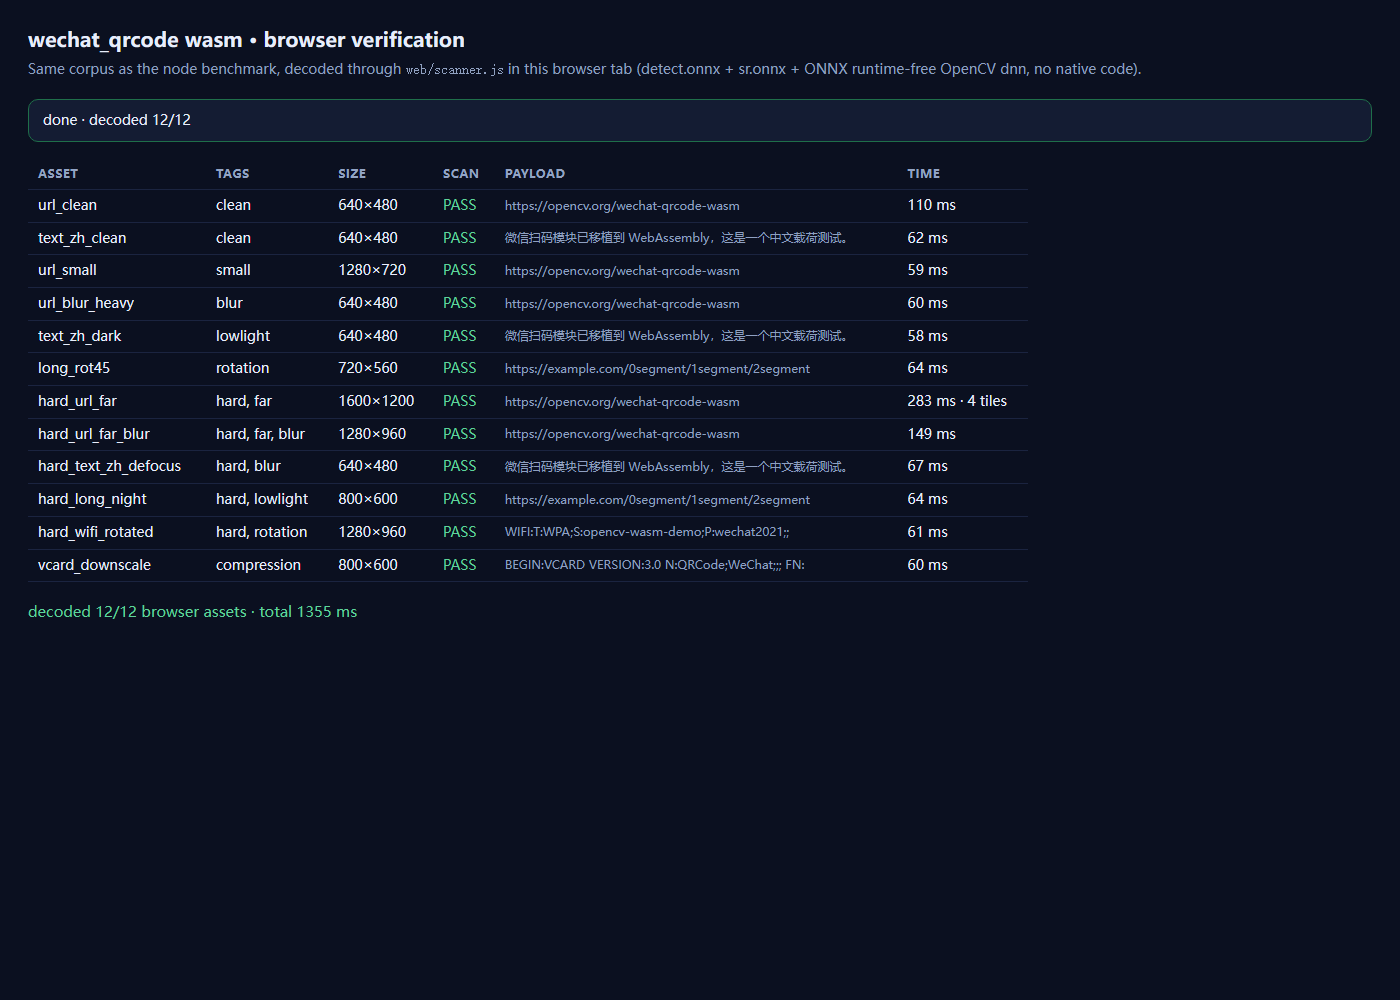
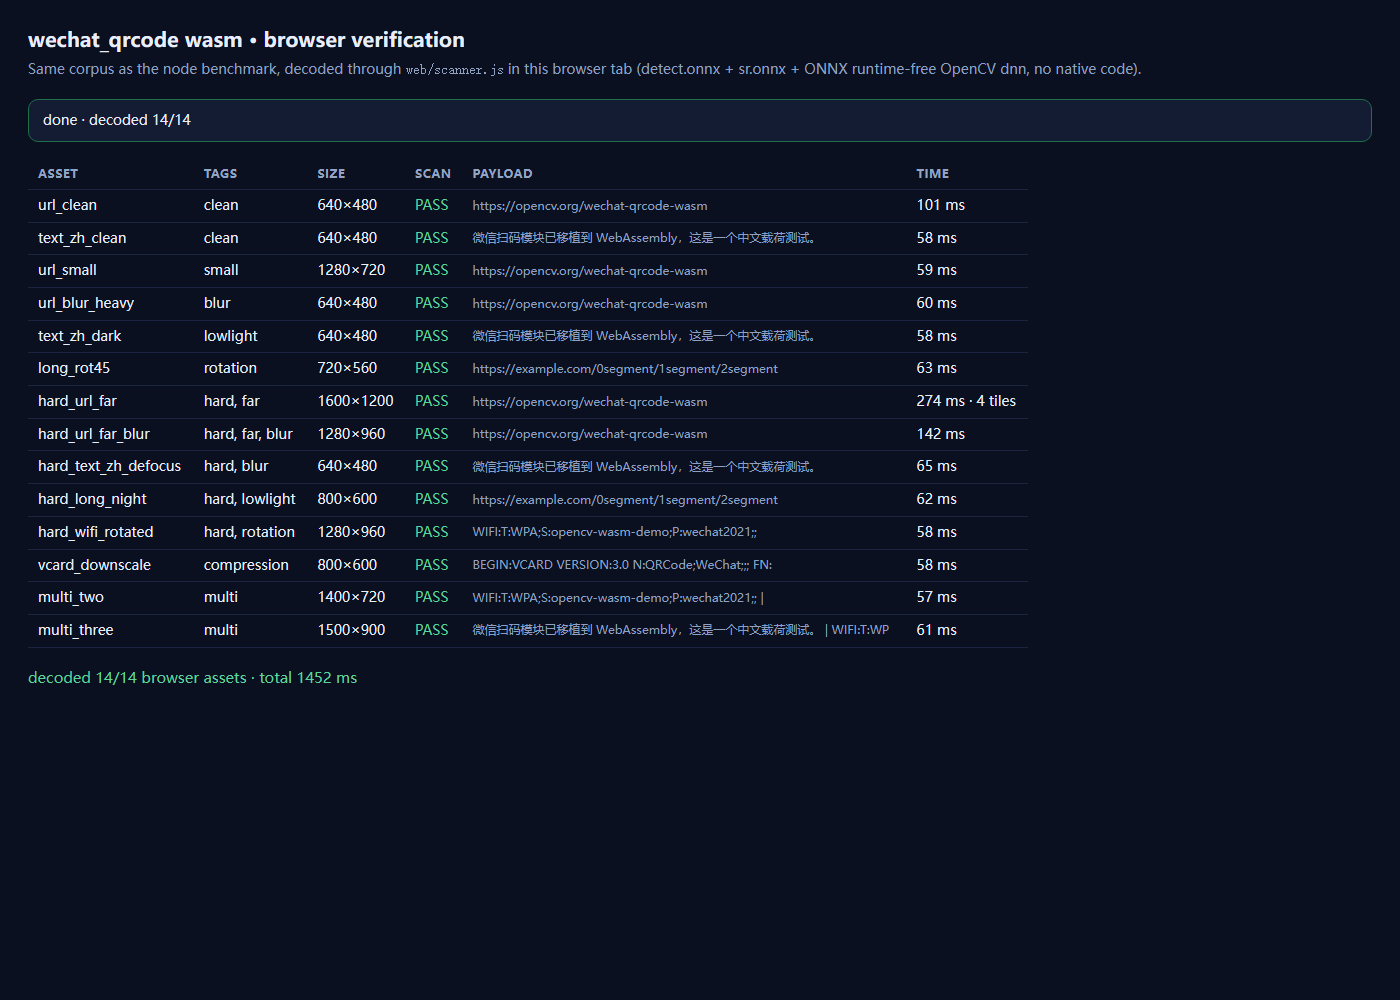
Add multi-code regression coverage, docs and refresh benchmark
- gen_test_assets: multi_two / multi_three / multi_duplicate / multi_grid scenes
- run-tests: dedicated multi-code suite (4/4), harness resultsMatchAsset (multiset)
- browser test: 14 assets incl. 2-code and 3-code scenes
- docs: multi-code semantics in README / docs/api.md / docs/architecture.md / AGENTS.md
- BENCHMARK.md + docs/browser-tests.png regenerated

Changed region(s): [[0.0307, 0.155, 0.7371, 0.682]]

diff --git a/tests/browser/browser-test.js b/tests/browser/browser-test.js
@@ -25,7 +25,19 @@ const WANTED = [
   'hard_long_night',
   'hard_wifi_rotated',
   'vcard_downscale',
+  'multi_two',
+  'multi_three',
 ];
+
+/** Multi-code aware ground-truth check (same rule as tests/_harness.mjs#resultsMatchAsset). */
+function matchesAsset(asset, results) {
+  const want = new Map();
+  for (const payload of asset.payloads ?? [asset.payload]) want.set(payload, (want.get(payload) ?? 0) + 1);
+  const got = new Map();
+  for (const result of results) got.set(result.text, (got.get(result.text) ?? 0) + 1);
+  for (const [payload, count] of want) if ((got.get(payload) ?? 0) < count) return false;
+  return true;
+}
 
 function setStatus(text, cls = '') {
   statusEl.textContent = text;
@@ -80,10 +92,11 @@ async function main() {
       console.log(
         `[browser-test] ${asset.id} -> count=${result.count} ms=${result.ms} wall=${Math.round(performance.now() - t1)}`,
       );
-      const hit = result.results.find((r) => r.text === asset.payload);
+      const hit = matchesAsset(asset, result.results);
       cells[3].textContent = hit ? 'PASS' : 'FAIL';
       cells[3].className = hit ? 'pass' : 'fail';
-      cells[4].textContent = (result.results[0]?.text ?? '').slice(0, 46);
+      const texts = result.results.map((r) => r.text);
+      cells[4].textContent = (texts.length > 1 ? texts.join(' | ') : (texts[0] ?? '')).slice(0, 46);
       cells[4].className = 'payload';
       cells[5].textContent = `${Math.round(result.ms)} ms${result.tiles ? ` · ${result.tiles} tiles` : ''}`;
       if (hit) pass++;

diff --git a/tools/gen_test_assets.py b/tools/gen_test_assets.py
@@ -163,7 +163,7 @@ def build(seed: int, out_dir: Path) -> list[dict]:
 
     entries: list[dict] = []
 
-    def emit(asset_id: str, payload: str, img: Image.Image, tags: list[str], note: str = "") -> None:
+    def write_asset(asset_id: str, img: Image.Image, meta: dict) -> None:
         img = img.convert("RGB")
         png_path = png_dir / f"{asset_id}.png"
         raw_path = raw_dir / f"{asset_id}.rgba"
@@ -173,15 +173,20 @@ def build(seed: int, out_dir: Path) -> list[dict]:
         entries.append(
             {
                 "id": asset_id,
-                "payload": payload,
                 "width": img.width,
                 "height": img.height,
                 "png": f"png/{asset_id}.png",
                 "raw": f"raw/{asset_id}.rgba",
-                "tags": tags,
-                "note": note,
+                **meta,
             }
         )
+
+    def emit(asset_id: str, payload: str, img: Image.Image, tags: list[str], note: str = "") -> None:
+        write_asset(asset_id, img, {"payload": payload, "tags": tags, "note": note})
+
+    def emit_multi(asset_id: str, payloads: list[str], img: Image.Image, note: str) -> None:
+        """Multi-code scene: `expect` is the number of distinct codes that must be decoded."""
+        write_asset(asset_id, img, {"payload": payloads[0], "payloads": payloads, "expect": len(payloads), "tags": ["multi"], "note": note})
 
     def fresh_qr(payload: str, *, scale: int, border: int = 4, error: str = "m") -> Image.Image:
         return qr_image(payload, scale=scale, border=border, error=error)
@@ -300,6 +305,48 @@ def build(seed: int, out_dir: Path) -> list[dict]:
     # 9h. rotated small code (no axis-aligned gift for the finder-pattern scan)
     img = hard_scene(PAYLOADS["wifi"], (1280, 960), 3).rotate(28, resample=Image.BICUBIC, expand=False, fillcolor=(238, 238, 238))
     emit("hard_wifi_rotated", PAYLOADS["wifi"], img, ["hard", "rotation"], "28 degrees, ~60px code")
+    # 10. multi-code scenes: the detector emits many candidate boxes (keep_top_k=100) and the
+    # decoder walks all of them, so several codes in one frame are decoded in a single call.
+    def multi_scene(payloads: list[str], size: tuple[int, int], centers: list[tuple[int, int]], qr_scale: int = 6) -> Image.Image:
+        img = scene_background(size, rng)
+        for payload, center in zip(payloads, centers):
+            img = paste_qr(img, fresh_qr(payload, scale=qr_scale), center=center)
+        return img
+
+    emit_multi(
+        "multi_two",
+        [PAYLOADS["url"], PAYLOADS["wifi"]],
+        multi_scene([PAYLOADS["url"], PAYLOADS["wifi"]], (1400, 720), [(340, 360), (1060, 360)]),
+        "two different codes in one frame",
+    )
+    emit_multi(
+        "multi_three",
+        [PAYLOADS["url"], PAYLOADS["text_zh"], PAYLOADS["wifi"]],
+        multi_scene(
+            [PAYLOADS["url"], PAYLOADS["text_zh"], PAYLOADS["wifi"]],
+            (1500, 900),
+            [(300, 230), (1180, 260), (740, 690)],
+        ),
+        "three different codes in one frame",
+    )
+    emit_multi(
+        "multi_duplicate",
+        [PAYLOADS["vcard"], PAYLOADS["vcard"]],
+        multi_scene([PAYLOADS["vcard"], PAYLOADS["vcard"]], (1200, 620), [(320, 310), (880, 310)]),
+        "same payload twice: both quads must be reported (dedup is spatial, not by text)",
+    )
+    grid_payloads = [f"https://grid.example/item{i}" for i in range(9)]
+    emit_multi(
+        "multi_grid",
+        grid_payloads,
+        multi_scene(
+            grid_payloads,
+            (1600, 1100),
+            [(310 + col * 490, 230 + row * 330) for row in range(3) for col in range(3)],
+            qr_scale=5,
+        ),
+        "3x3 grid of distinct codes",
+    )
 
     manifest = {
         "seed": seed,

diff --git a/BENCHMARK.md b/BENCHMARK.md
@@ -4,47 +4,48 @@ Generated by `tests/benchmark.mjs` from `tests/assets/manifest.json` (29 assets)
 The corpus is generated by `tools/gen_test_assets.py` and contains a clean reference set plus a
 deliberately hostile "hard" tier (far/small codes, defocus, night, glare, strong perspective, recompression).
 All decoders receive identical raw RGBA pixels; latency is measured in node on the same machine.
+Multi-code scenes are excluded here (jsQR decodes a single code per call); they are covered by tests/run-tests.mjs.
 
 Decoder configuration: tiled fallback 2x2 for wechat_qrcode.
 
 | decoder | decoded | clean set | hard tier | avg latency |
 | --- | --- | --- | --- | --- |
-| OpenCV wechat_qrcode (this repo) | 28/29 (97%) | 5/5 | 9/10 | 99.9 ms |
-| zxing-wasm | 25/29 (86%) | 5/5 | 6/10 | 4.8 ms |
-| jsQR | 25/29 (86%) | 5/5 | 6/10 | 90.6 ms |
+| OpenCV wechat_qrcode (this repo) | 28/29 (97%) | 5/5 | 9/10 | 93.7 ms |
+| zxing-wasm | 25/29 (86%) | 5/5 | 6/10 | 3.9 ms |
+| jsQR | 25/29 (86%) | 5/5 | 6/10 | 84.4 ms |
 
 ## Per-asset results
 
 | asset | tags | wechat | zxing-wasm | jsqr |
 | --- | --- | --- | --- | --- |
-| url_clean | clean | ✓ 67 | ✓ 3 | ✓ 13 |
-| text_zh_clean | clean | ✓ 66 | ✓ 3 | ✓ 16 |
-| wifi_clean | clean | ✓ 65 | ✓ 2 | ✓ 8 |
-| vcard_clean | clean | ✓ 67 | ✓ 3 | ✓ 9 |
-| long_clean | clean | ✓ 65 | ✓ 3 | ✓ 14 |
-| url_small | small | ✓ 60 | ✓ 6 | ✓ 34 |
-| text_zh_small | small | ✓ 59 | ✓ 5 | ✓ 23 |
-| wifi_small | small | ✓ 61 | ✓ 5 | ✓ 33 |
-| url_blur_light | blur | ✓ 61 | ✓ 4 | ✓ 13 |
-| url_blur_heavy | blur | ✓ 62 | ✓ 3 | ✓ 7 |
-| text_zh_noise | noise | ✓ 66 | ✓ 4 | ✓ 182 |
+| url_clean | clean | ✓ 59 | ✓ 2 | ✓ 10 |
+| text_zh_clean | clean | ✓ 60 | ✓ 3 | ✓ 10 |
+| wifi_clean | clean | ✓ 61 | ✓ 2 | ✓ 7 |
+| vcard_clean | clean | ✓ 61 | ✓ 3 | ✓ 11 |
+| long_clean | clean | ✓ 60 | ✓ 2 | ✓ 16 |
+| url_small | small | ✓ 59 | ✓ 5 | ✓ 18 |
+| text_zh_small | small | ✓ 58 | ✓ 5 | ✓ 34 |
+| wifi_small | small | ✓ 57 | ✓ 5 | ✓ 30 |
+| url_blur_light | blur | ✓ 58 | ✓ 3 | ✓ 7 |
+| url_blur_heavy | blur | ✓ 60 | ✓ 3 | ✓ 9 |
+| text_zh_noise | noise | ✓ 64 | ✓ 3 | ✓ 168 |
 | text_zh_dark | lowlight | ✓ 60 | ✓ 2 | ✓ 7 |
-| wifi_lowcontrast | low_contrast | ✓ 63 | ✓ 2 | ✓ 7 |
-| url_glare | glare | ✓ 65 | ✓ 2 | ✓ 9 |
-| long_perspective | perspective | ✓ 64 | ✓ 3 | ✓ 12 |
-| long_rot45 | rotation | ✓ 66 | ✓ 3 | ✓ 15 |
-| long_rot15 | rotation | ✓ 65 | ✓ 3 | ✓ 14 |
-| vcard_downscale | compression | ✓ 65 | ✓ 3 | ✓ 13 |
-| vcard_blur_small | small, blur | ✓ 64 | ✓ 3 | ✓ 13 |
-| hard_url_far | hard, far | ✓ 315 | ✓ 16 | ✓ 39 |
-| hard_text_zh_far | hard, far | ✓ 66 | ✓ 8 | ✓ 24 |
-| hard_wifi_far | hard, far | ✓ 65 | ✓ 12 | ✓ 43 |
-| hard_url_far_blur | hard, far, blur | ✓ 162 | ✗ | ✗ |
-| hard_text_zh_defocus | hard, blur | ✓ 73 | ✗ | ✗ |
-| hard_long_night | hard, lowlight | ✓ 68 | ✗ | ✗ |
-| hard_vcard_glare | hard, glare | ✓ 63 | ✓ 3 | ✓ 12 |
-| hard_url_tilted | hard, perspective | ✓ 62 | ✓ 4 | ✓ 33 |
+| wifi_lowcontrast | low_contrast | ✓ 60 | ✓ 2 | ✓ 8 |
+| url_glare | glare | ✓ 59 | ✓ 2 | ✓ 6 |
+| long_perspective | perspective | ✓ 62 | ✓ 3 | ✓ 11 |
+| long_rot45 | rotation | ✓ 64 | ✓ 2 | ✓ 13 |
+| long_rot15 | rotation | ✓ 61 | ✓ 3 | ✓ 12 |
+| vcard_downscale | compression | ✓ 59 | ✓ 3 | ✓ 12 |
+| vcard_blur_small | small, blur | ✓ 60 | ✓ 3 | ✓ 11 |
+| hard_url_far | hard, far | ✓ 289 | ✓ 10 | ✓ 34 |
+| hard_text_zh_far | hard, far | ✓ 59 | ✓ 6 | ✓ 21 |
+| hard_wifi_far | hard, far | ✓ 63 | ✓ 10 | ✓ 37 |
+| hard_url_far_blur | hard, far, blur | ✓ 151 | ✗ | ✗ |
+| hard_text_zh_defocus | hard, blur | ✓ 68 | ✗ | ✗ |
+| hard_long_night | hard, lowlight | ✓ 64 | ✗ | ✗ |
+| hard_vcard_glare | hard, glare | ✓ 59 | ✓ 2 | ✓ 11 |
+| hard_url_tilted | hard, perspective | ✓ 58 | ✓ 3 | ✓ 59 |
 | hard_text_zh_recompressed | hard, compression, noise | ✗ | ✗ | ✗ |
-| hard_wifi_rotated | hard, rotation | ✓ 63 | ✓ 9 | ✓ 75 |
+| hard_wifi_rotated | hard, rotation | ✓ 58 | ✓ 6 | ✓ 68 |
 
 `✓` = payload decoded, number = milliseconds. `✗` = payload not decoded.

diff --git a/README.md b/README.md
@@ -11,7 +11,7 @@
 
 ## 效果
 
-同一份测试集（`tests/assets`，29 张，含干净参考集 + 刻意刁钻的 hard 档：远景小码、失焦、夜景、眩光、强透视、二次压缩），三个解码器吃完全相同的 RGBA 像素：
+同一份测试集（`tests/assets`，共 33 张，其中 29 张单码：干净参考集 + 刻意刁钻的 hard 档：远景小码、失焦、夜景、眩光、强透视、二次压缩），三个解码器吃完全相同的 RGBA 像素：
 
 | 解码器 | 总体 | 干净集 | hard 档 | 平均耗时（Node） |
 | --- | --- | --- | --- | --- |
@@ -26,7 +26,8 @@
 
 - **hard 档差距即微信算法价值所在**：`hard_url_far_blur`（50px 小码 + 模糊）、`hard_text_zh_defocus`（失焦 2.8）、`hard_long_night`（亮度 ×0.22 + 噪声）这三种图 zxing/jsQR 全灭，wechat_qrcode 全部解出。
 - 唯一三边都没解出的是 `hard_text_zh_recompressed`（先缩到 0.35 再模糊再加噪声，已超出可恢复信息量），保留在基准里作为"极限"参照。
-- 浏览器端自动化验证（真实 Chrome，`npm run test:browser`）：**12/12** 通过，单帧 58–67 ms（`hard_url_far` 走 4 块切图兜底，283 ms）。
+- **多码同时识别**：一帧里的多个二维码一次调用全部返回（`count` / `results[]`），检测与解码都是上游本来就支持的路径。实测 2 码 / 3 码 / 同码重复 / 3×3 九宫格（1600×1100）全部完整返回，耗时仍 ~60 ms（9 码 ~70 ms）。回归测试见 `npm test` 的 multi-code 段。
+- 浏览器端自动化验证（真实 Chrome，`npm run test:browser`）：**14/14** 通过（含 2 码、3 码场景），单帧 57–65 ms（`hard_url_far` 走 4 块切图兜底，274 ms）。
 - 产物体积：`wq.wasm` 7.44 MB（gzip 1.63 MB）+ `wq.js` 70 KB + 两个模型共 1 MB。
 
 ![demo 页面](docs/demo.png)
@@ -59,6 +60,8 @@ for (const { text, points } of results) {
 }
 scanner.destroy();
 ```
+
+`results` 是数组：同一帧里的多个二维码会全部返回（顺序不保证，`points` 是每个码的 4 个角点）。重复内容的两个码会作为两条独立结果返回（上游去重是"空间距离 < 10px"，不是按文本）。
 
 `tiles: 2` 打开重叠切图兜底：整图先扫一次，扫不到才把图切成 2×2 重叠块再扫（并回填坐标）。手机的远距离小码场景用它；实时预览建议保持默认（不切图，单帧 ~60 ms）。
 

diff --git a/AGENTS.md b/AGENTS.md
@@ -11,9 +11,9 @@
 ```bash
 npm install              # 测试/基准依赖
 npm run serve            # http://127.0.0.1:5173/demo/
-npm test                 # Node 冒烟 + 准确率（29 张图）
+npm test                 # Node 冒烟 + 准确率（29 张单码 + 4 张多码场景）
 npm run bench            # 对比 zxing-wasm / jsQR，写 BENCHMARK.md
-npm run test:browser     # 真实 Chrome（puppeteer-core）跑 12 张图
+npm run test:browser     # 真实 Chrome（puppeteer-core）跑 14 张图（含多码）
 npm run assets           # 重新生成测试集（python + segno/pillow/numpy）
 npm run build            # 全量重建（OpenCV 源码在 .cache/opencv 或 $env:OPENCV_SRC）
 ```
@@ -27,13 +27,13 @@ npm run build            # 全量重建（OpenCV 源码在 .cache/opencv 或 $en
 - OpenCV 构建必须带 `-DOPENCV_HAVE_FILESYSTEM_SUPPORT=1`，否则 `wq_init` 在 `CV_Assert(utils::fs::exists())` 抛 `StsNotImplemented`。
 - 改 `BUILD_LIST` / 模块集合后必须用 `configure-opencv.ps1 -Reconfigure`（清 build 目录），否则 CMake cache 里的 `BUILD_opencv_*=OFF` 会让模块静默消失。
 - 不要引入 pthread：单线程是"任意静态托管可用、无需 COOP/COEP"的前提。
-- 不要把 `tests/assets/`（约 33 MB 生成物）提交进仓库。
+- 不要把 `tests/assets/`（约 95 MB 生成物：PNG + 原始 RGBA）提交进仓库。
 
 ## 验证要求（改完必须跑）
 
-1. `npm test` → 期望 `decoded 27/29 assets`、`clean reference set: 5/5`、`hard tier: 8/10`（不开切图）。
+1. `npm test` → 期望 `decoded 27/29 assets`、`clean reference set: 5/5`、`hard tier: 8/10`（不开切图），且 multi-code 段 4/4 PASS（2 码、3 码、同码重复、3×3 九宫格）。
 2. `node tests/benchmark.mjs --tiles 2` → 期望 wechat_qrcode 28/29，且 BENCHMARK.md 被更新。
-3. `npm run test:browser` → 期望 `browser: decoded 12/12`，退出码 0。它需要本机 Chrome（puppeteer-core 通过 `CHROME_PATH` 或默认路径找）。
+3. `npm run test:browser` → 期望 `browser: decoded 14/14`，退出码 0。它需要本机 Chrome（puppeteer-core 通过 `CHROME_PATH` 或默认路径找）。
 4. 改了 JNI/wasm 导出 → 先 `npm run build` 再跑上面三项。
 
 已知唯一"该失败"的用例：`hard_text_zh_recompressed`（信息量已被破坏），任何解码器都解不出，别试图调参让它通过。

diff --git a/docs/architecture.md b/docs/architecture.md
@@ -86,6 +86,16 @@ scanner.scan(canvas)
 
 `WeChatQRCode` 构造函数用 `CV_Assert(utils::fs::exists(path))` 校验模型路径。OpenCV 在 `__EMSCRIPTEN__` 下默认关闭文件系统支持（`filesystem.private.hpp` 写死为 0 → `fs::exists` 是抛异常的桩），所以构建时加 `-DOPENCV_HAVE_FILESYSTEM_SUPPORT=1`，让 POSIX 实现编译进来去 `stat()` MEMFS。JS 侧 `FS.writeFile('/models/detect.onnx', bytes)` 之后按路径传参即可——不需要改模块源码，也不需要把模型编进二进制（模型独立 fetch，可缓存、可替换）。
 
+### 4.5 多码识别
+
+`SSDDetector::forward` 解析 `DetectionOutput` 的每一行候选框（`keep_top_k = 100`），`Impl::decode` 再对每个候选框裁剪、多尺度解码，所以"一帧多码"是上游本来的能力，`detectAndDecode` 返回的 `vector<string>` / 角点本来就是多结果的。C API 只是把数组完整塞进 JSON：
+
+```json
+{"ok":true,"count":3,"results":[{"text":"...","points":[[x,y],...]}, ...]}
+```
+
+本仓库没有改这段逻辑，只补了回归覆盖（2 码 / 3 码 / 同码重复 / 3×3 九宫格）与文档。注意上游去重按角点距离 10px，同内容的两张码会保留两条结果。
+
 ### 5. 切图兜底（JS 层，不改算法）
 
 检测网络先把整帧缩到约 400×400（`targetArea = 400*400`）再推理。1920×1080 的一帧里，远处的二维码可能只剩 10~20 像素，检测器直接漏掉。`scan(..., {tiles: 2})` 在整图无结果时把原图切成 2×2、20% 重叠的块分别送进同一条 C++ 管线，再把块内坐标加回全图坐标。因为没有任何阈值改动、模型也没变，它只是把"同一个算法"作用在更有利的尺度上；不开启时行为与上游完全一致。

diff --git a/docs/api.md b/docs/api.md
@@ -60,6 +60,25 @@ interface ScanResult {
 
 `tiles` 是针对"大图里的小码"的补充：检测网络把整帧缩到 ~400×400，远处二维码可能只剩十几个像素；切块后同样的码在块里相对变大，检测器才能命中。代价是最坏情况多 4~9 次推理（1600×1200 分 4 块约 +300 ms），所以默认关闭，实时预览建议不开、拍照/上传建议开 `tiles: 2`。
 
+## 多码识别
+
+一帧里有多个二维码时，`scan()` 会一次性返回全部结果，不需要逐块调用：
+
+```js
+const { count, results } = scanner.scan(imageData);
+for (const { text, points } of results) {
+  console.log(text, points);   // 每个码 4 个角点（整帧坐标）
+}
+```
+
+语义细节：
+
+- `count` 是本次返回的码数，`results` 顺序不保证（由检测候选框顺序决定）。
+- 同内容的两张码会返回**两条独立结果**、各自带角点：上游去重是"角点距离 < 10px"，不是按文本。所以不能用 `text` 做唯一键，UI 上建议按角点位置区分。
+- 检测器每帧最多输出 `keep_top_k = 100` 个候选框（模型属性），解码器逐个尝试，因此码越多耗时越长；实测 1600×1100 的 3×3 九宫格（9 码）单帧约 64–120 ms，2–3 码约 60 ms。
+- 开启 `tiles` 切图兜底时，只有在整图**一个都没扫到**才会切块；切块结果按文本去重后合并（同一文本在同一帧里的多条结果会被合并，这是切图路径唯一与单次调用不同之处）。
+- 已覆盖的回归用例：`multi_two`、`multi_three`、`multi_duplicate`、`multi_grid`，`npm test` 会单独打印 multi-code 表并要求全部 PASS。
+
 ## 示例
 
 ### 摄像头实时预览
